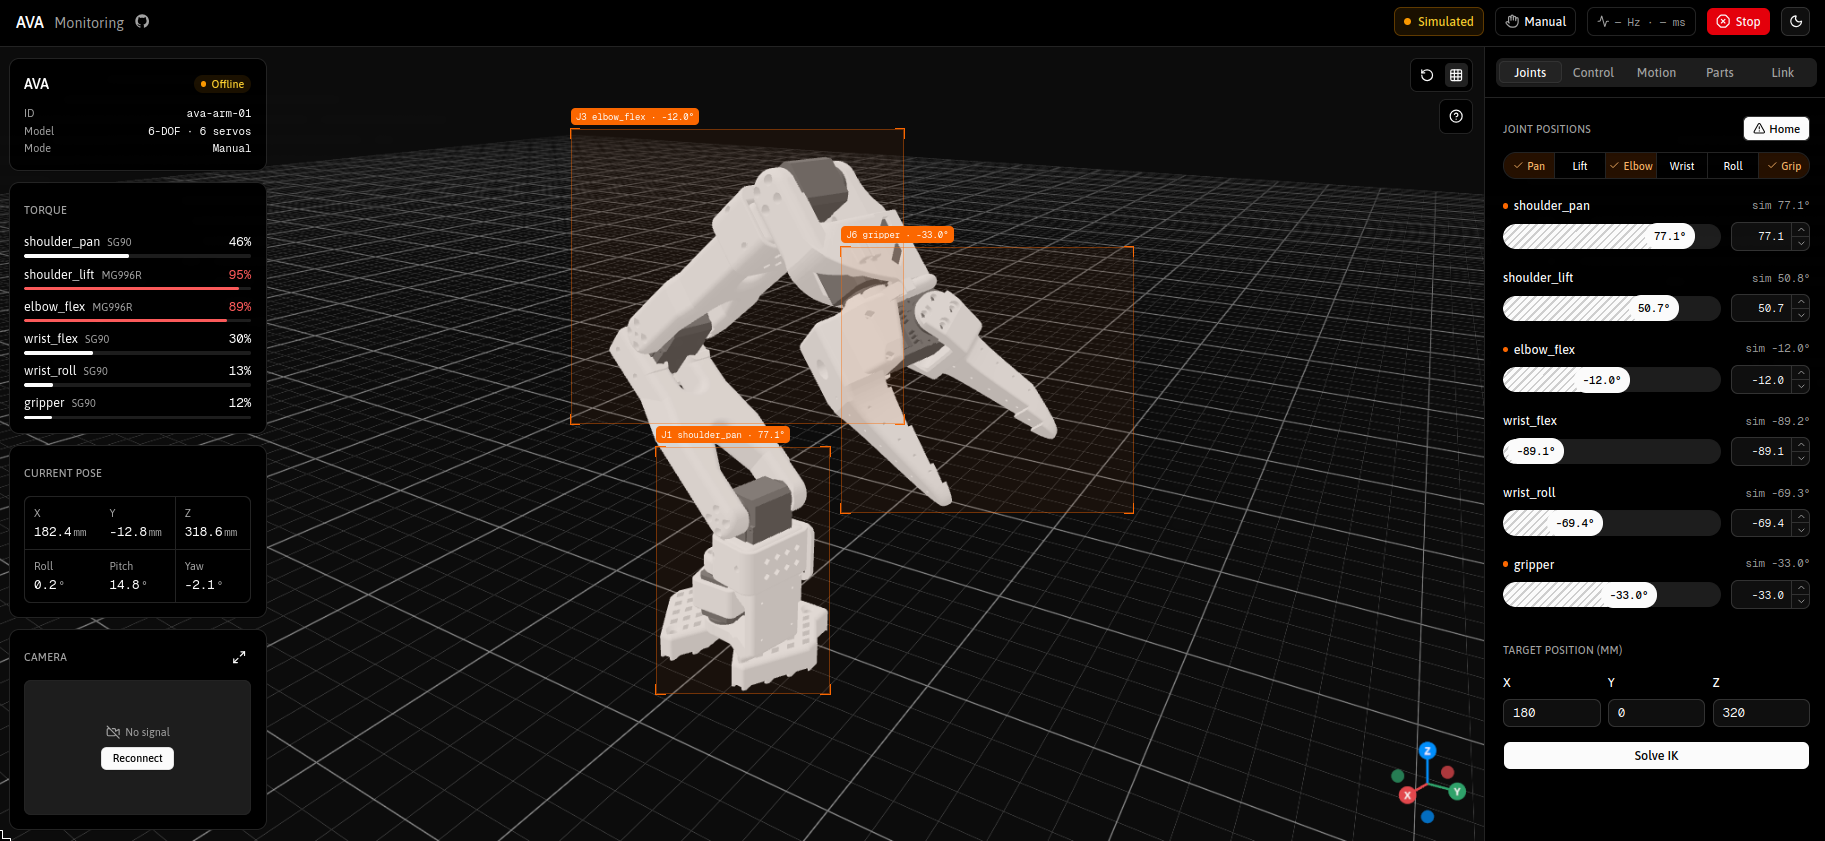
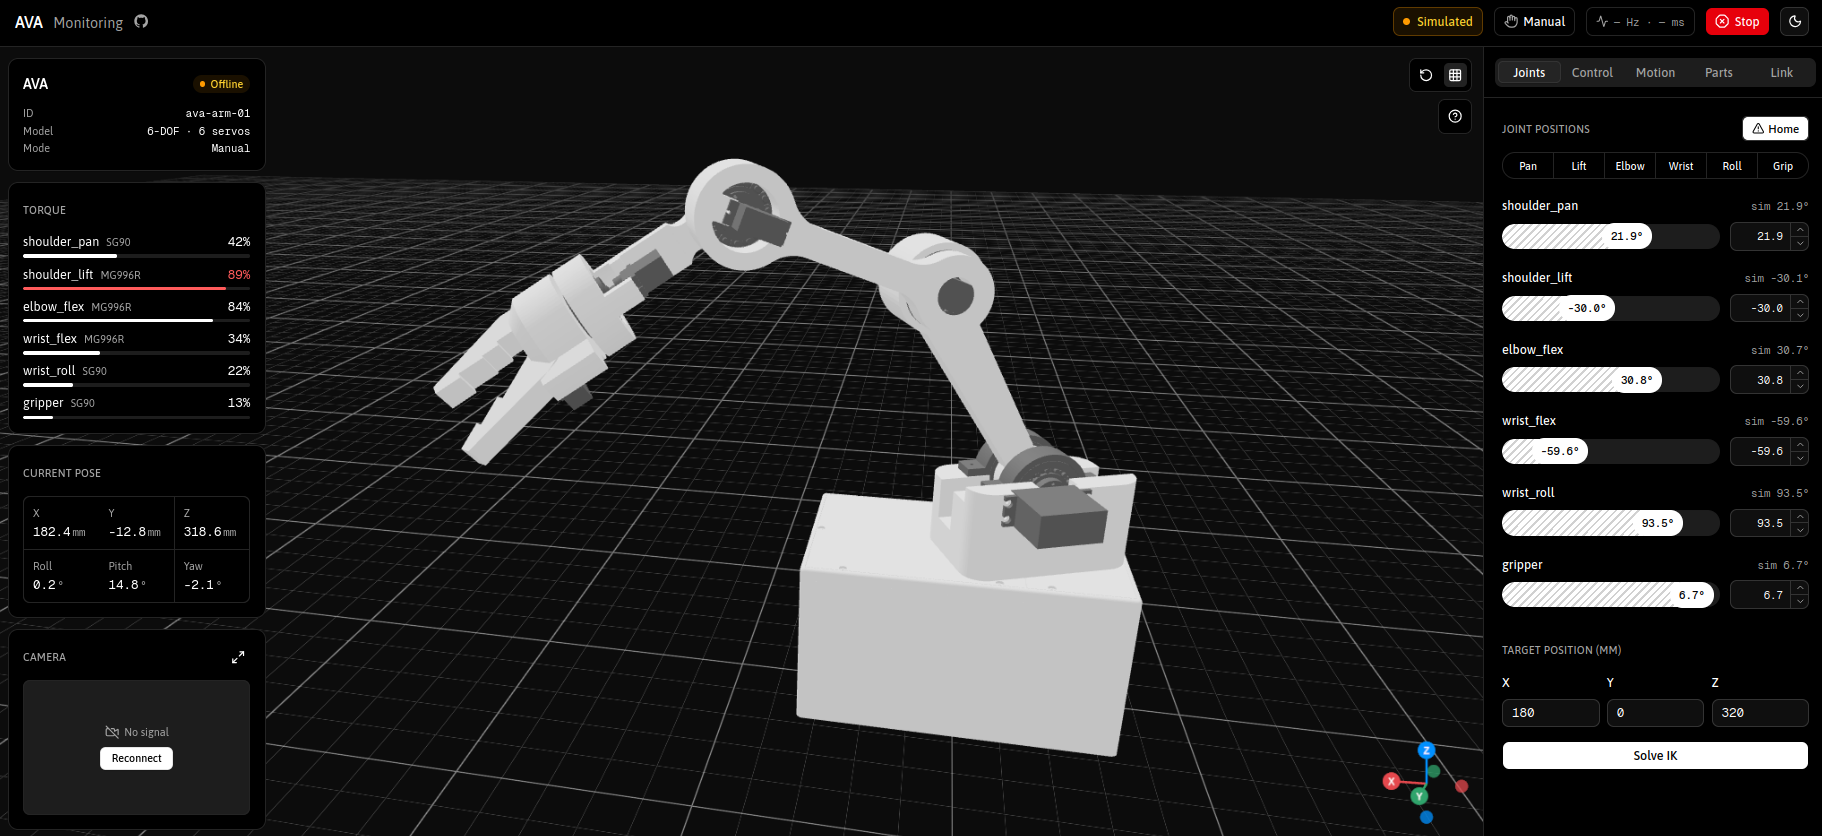
Update servo layout to 2x MG996R + 4x SG90, refresh screenshot
The torque card and Parts tab showed 3x MG996R + 3x SG90. The arm uses
MG996R on shoulder_pan and shoulder_lift only; everything from the elbow
out is an SG90, matching the effort limits in ava_description.

Also add the missing J5/J6 servo entries to the Parts catalogue, rename
the viewport links for the new arm model (forearm_link, gripper_base_link,
gripper_jaw_link) and retune the viewport scale for the taller arm.

diff --git a/src/features/viewport/viewport.content.ts b/src/features/viewport/viewport.content.ts
@@ -3,20 +3,23 @@
 export const ROBOT_URDF_URL = `${import.meta.env.BASE_URL}robot/urdf/ava.urdf`
 export const ROBOT_PACKAGES = { ava_description: `${import.meta.env.BASE_URL}robot` }
 
-// URDF is in metres and the arm is ~0.35 m long; scale it up to fit the MODEL_HEIGHT framing.
-export const ROBOT_SCALE = 2
+// URDF is in metres and the arm stands ~0.58 m tall at the home pose; scale it up to fit
+// the MODEL_HEIGHT framing.
+export const ROBOT_SCALE = 1.7
 
 // Scene height the camera and orbit target are framed around.
 export const MODEL_HEIGHT = 1
 
 // URDF link moved by each joint (same order as JOINT_NAMES); the highlight box wraps that link's own meshes.
+// Each actuated joint's child link in the export is an "axis_*"/"horn_*" stub that the
+// structural part is then fixed to, so the structural link is what reads as moving.
 export const JOINT_PARTS = [
   ["shoulder_link"], // shoulder_pan
   ["upper_arm_link"], // shoulder_lift
-  ["lower_arm_link"], // elbow_flex
+  ["forearm_link"], // elbow_flex
   ["wrist_link"], // wrist_flex
-  ["gripper_link"], // wrist_roll
-  ["moving_jaw_link"], // gripper
+  ["gripper_base_link"], // wrist_roll
+  ["gripper_jaw_link"], // gripper
 ]
 
 // Friendly names for clickable URDF links.
@@ -24,10 +27,10 @@ export const LINK_LABELS: Record<string, string> = {
   base_link: "Base",
   shoulder_link: "Shoulder",
   upper_arm_link: "Upper arm",
-  lower_arm_link: "Forearm",
+  forearm_link: "Forearm",
   wrist_link: "Wrist",
-  gripper_link: "Gripper",
-  moving_jaw_link: "Moving jaw",
+  gripper_base_link: "Gripper",
+  gripper_jaw_link: "Moving jaw",
 }
 
 // Selected part glow.

diff --git a/src/features/parts/parts.content.ts b/src/features/parts/parts.content.ts
@@ -29,16 +29,16 @@ const SG90_SPECS: IPartSpec[] = [
 export const PARTS: IPart[] = [
   {
     id: "servo-j1",
-    name: "SG90",
+    name: "MG996R",
     kind: "Servo · J1 shoulder_pan",
     category: "servo",
-    image: "parts/sg90.webp",
+    image: "parts/mg996.webp",
     status: "live",
     joint: 0,
-    specs: SG90_SPECS,
-    nominalVoltage: 5,
+    specs: MG996R_SPECS,
+    nominalVoltage: 6,
     idleCurrent: 0.01,
-    maxCurrent: 0.65,
+    maxCurrent: 2.5,
   },
   {
     id: "servo-j4",
@@ -68,16 +68,42 @@ export const PARTS: IPart[] = [
   },
   {
     id: "servo-j3",
-    name: "MG996R",
+    name: "SG90",
     kind: "Servo · J3 elbow_flex",
     category: "servo",
-    image: "parts/mg996.webp",
+    image: "parts/sg90.webp",
     status: "live",
     joint: 2,
-    specs: MG996R_SPECS,
-    nominalVoltage: 6,
+    specs: SG90_SPECS,
+    nominalVoltage: 5,
     idleCurrent: 0.01,
-    maxCurrent: 2.5,
+    maxCurrent: 0.65,
+  },
+  {
+    id: "servo-j5",
+    name: "SG90",
+    kind: "Servo · J5 wrist_roll",
+    category: "servo",
+    image: "parts/sg90.webp",
+    status: "live",
+    joint: 4,
+    specs: SG90_SPECS,
+    nominalVoltage: 5,
+    idleCurrent: 0.01,
+    maxCurrent: 0.65,
+  },
+  {
+    id: "servo-j6",
+    name: "SG90",
+    kind: "Servo · J6 gripper",
+    category: "servo",
+    image: "parts/sg90.webp",
+    status: "live",
+    joint: 5,
+    specs: SG90_SPECS,
+    nominalVoltage: 5,
+    idleCurrent: 0.01,
+    maxCurrent: 0.65,
   },
   {
     id: "esp32",

diff --git a/src/features/robot/robot.content.ts b/src/features/robot/robot.content.ts
@@ -1,7 +1,8 @@
 import type { IRobotState } from "@/features/robot/robot.interface"
 
 export const JOINT_NAMES = ["shoulder_pan", "shoulder_lift", "elbow_flex", "wrist_flex", "wrist_roll", "gripper"]
-export const JOINT_SERVOS = ["SG90", "MG996R", "MG996R", "MG996R", "SG90", "SG90"]
+// 2x MG996R carry the arm and the load; everything from the elbow out is an SG90.
+export const JOINT_SERVOS = ["MG996R", "MG996R", "SG90", "SG90", "SG90", "SG90"]
 
 export const ROBOT_ID = "ava-arm-01"
 export const ROBOT_MODEL = "6-DOF · 6 servos"

diff --git a/README.md b/README.md
@@ -8,7 +8,7 @@
 
 <p align="center"><img src="docs/image.png" alt="AVA dashboard: 3D arm viewport with torque and pose cards, joint controls on the right" width="100%"></p>
 
-<p align="center"><sub><i>Screenshot of the work-in-progress dashboard — UI still evolving.</i></sub></p>
+<p align="center"><sub><i>Screenshot of the work-in-progress dashboard, driving the in-house arm model — UI still evolving.</i></sub></p>
 
 A static Vite + React SPA that talks to ROS 2 over rosbridge (WebSocket), so it
 needs no server of its own.
@@ -148,6 +148,11 @@ URDF and meshes have one source of truth. Inside ava-arm:
 ```bash
 ln -s ../../ros2_ws/src/ava_description public/robot
 ```
+
+> `ava.urdf` and the meshes are git-ignored in ava-arm, so the symlink points at files
+> that are not in a fresh clone. Without them the viewport falls back to its built-in
+> simulation; the rest of the dashboard works. See the
+> [ava-arm README](https://github.com/TomasSirotek/ava-arm#the-arm-model-files-are-supplied-locally).
 
 For live data, run rosbridge (`ros2 launch rosbridge_server rosbridge_websocket_launch.xml`,
 default `ws://localhost:9090`; override with `VITE_ROSBRIDGE_URL`). See the
